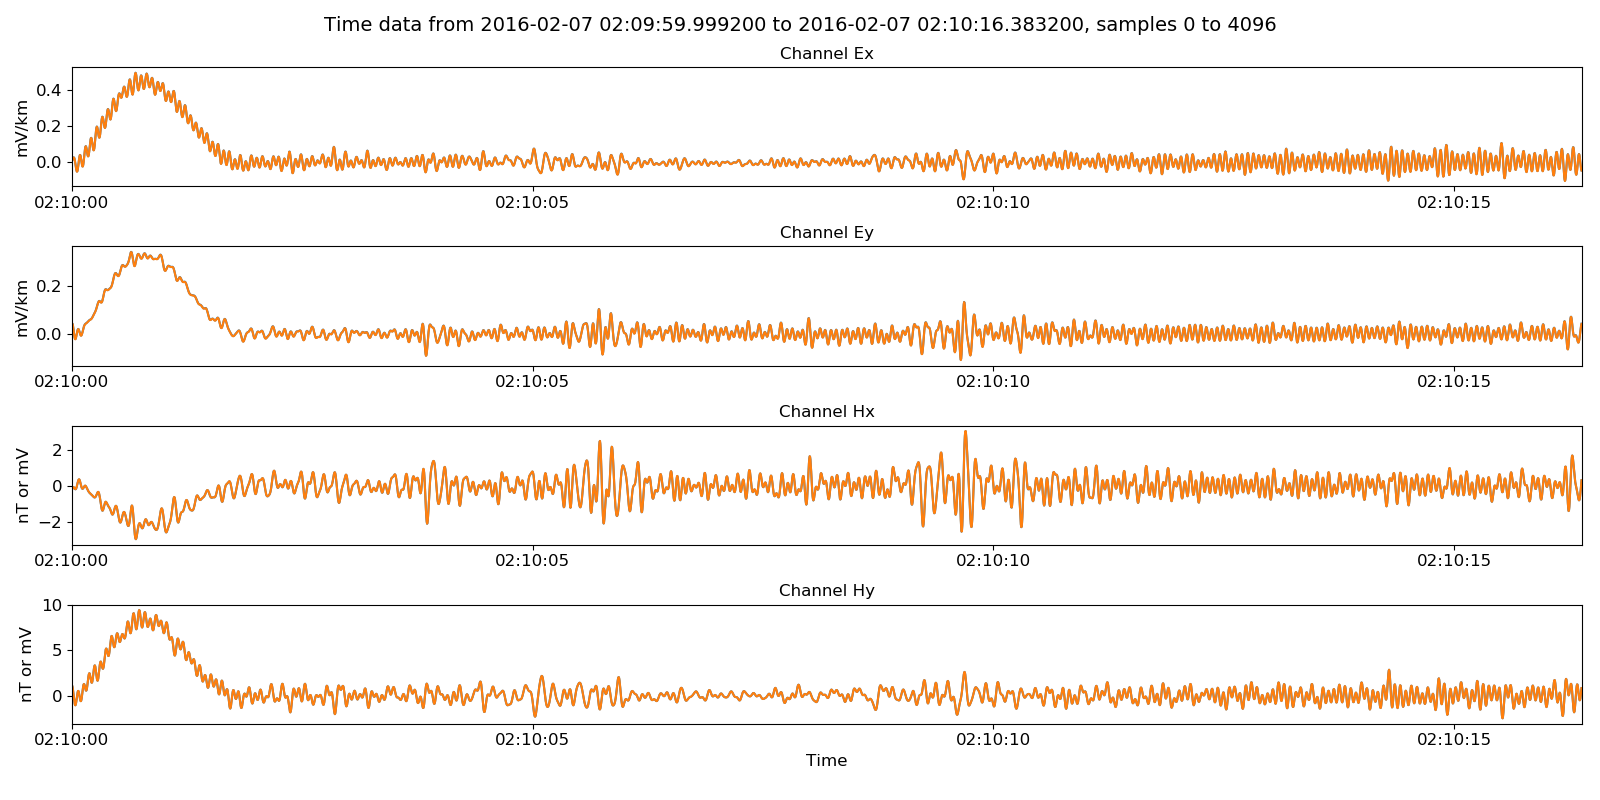
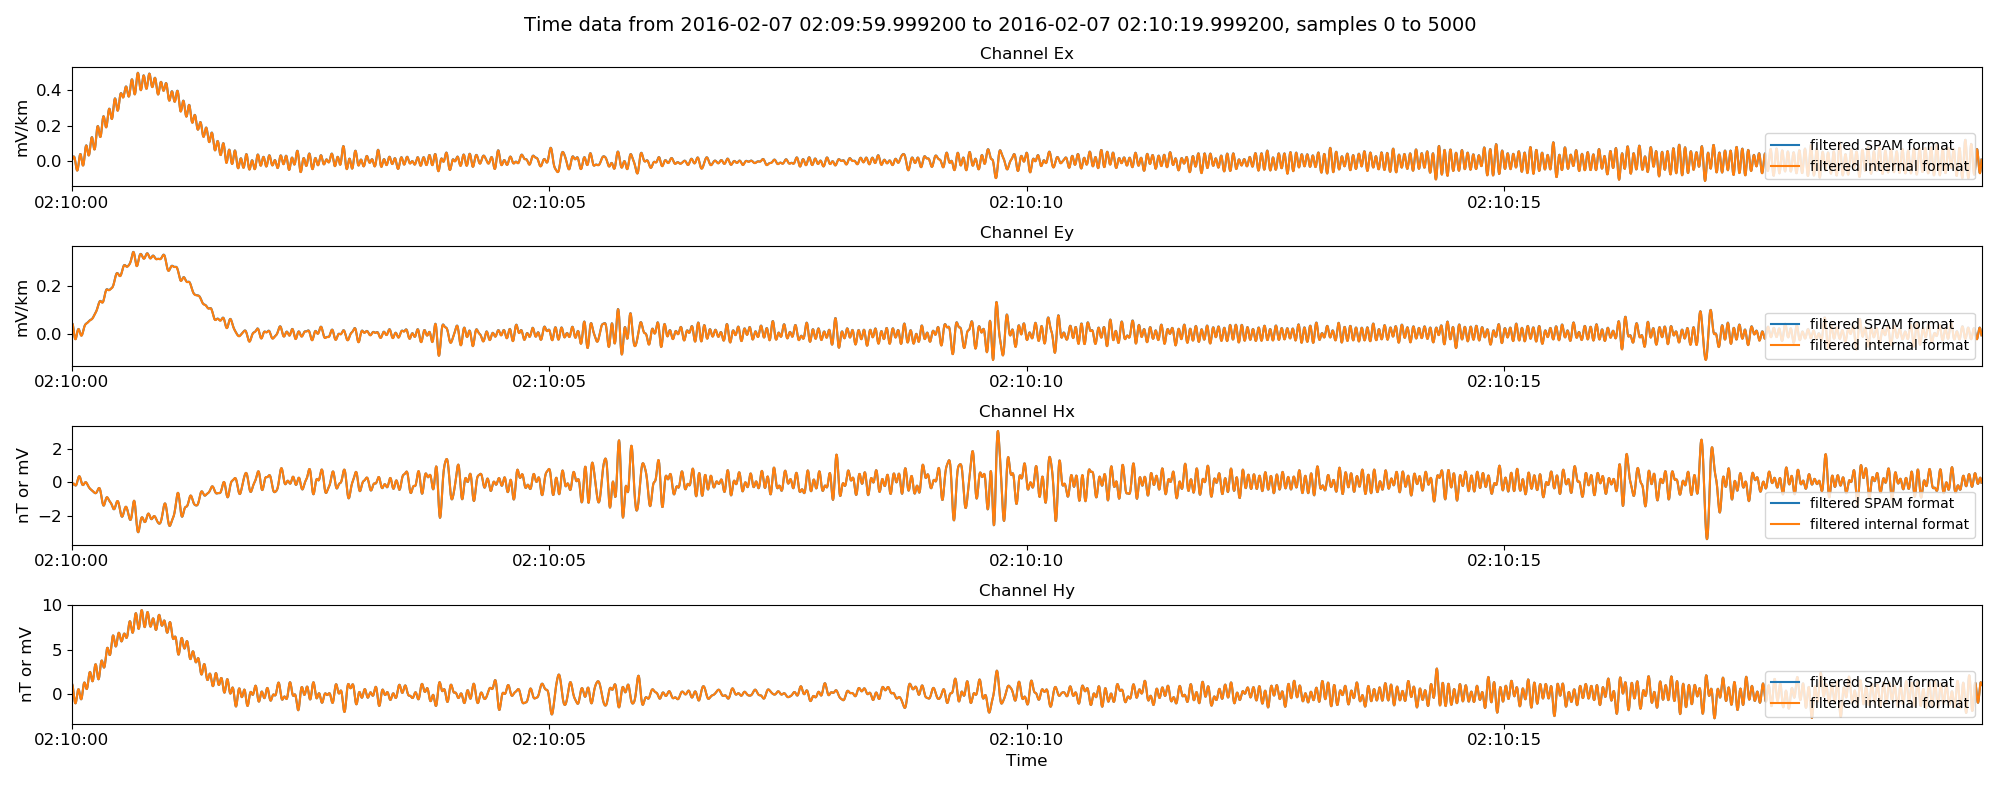
Updating examples given the changes. Some new images. Will now need an example for reading ascii data of unknown origin.

diff --git a/examples/conventions/atsReaderExamples.py b/examples/conventions/atsReaderExamples.py
@@ -14,32 +14,70 @@ unscaledData.printInfo()
 fig = unscaledData.view(sampleStop=20000)
 fig.savefig(os.path.join("images", "ats_unscaledData.png"))
 
-# get physical data, which is converted to field units 
-physicalData = atsReader.getPhysicalData(startTime, stopTime)
-physicalData.printInfo()
-fig = physicalData.view(sampleStop=20000)
+# get physical data, which is converted to field units
+physicalATSData = atsReader.getPhysicalData(startTime, stopTime)
+physicalATSData.printInfo()
+fig = physicalATSData.view(sampleStop=20000)
 fig.savefig(os.path.join("images", "ats_physicalData.png"))
 
 # all we see is 50Hz and 16Hz noise - apply low pass filter
 from resistics.utilities.utilsFilter import lowPass
-filteredData = lowPass(physicalData, 4, inplace=False)
-fig = filteredData.view(sampleStop=20000)
+
+filteredATSData = lowPass(physicalATSData, 4, inplace=False)
+fig = filteredATSData.view(sampleStop=20000)
 fig.savefig(os.path.join("images", "ats_filteredData.png"))
 
 # now write out as internal format
 from resistics.ioHandlers.dataWriterInternal import DataWriterInternal
+
 ats_2intenrnal = os.path.join("testData", "atsInternal")
 writer = DataWriterInternal()
 writer.setOutPath(ats_2intenrnal)
-writer.writeDataset(atsReader)
+writer.writeDataset(atsReader, physical=True)
+
+# read in internal format
+from resistics.ioHandlers.dataReaderInternal import DataReaderInternal
+
+internalReader = DataReaderInternal(ats_2intenrnal)
+internalReader.printInfo()
+internalReader.printComments()
+physicalInternalData = internalReader.getPhysicalData(startTime, stopTime)
+physicalInternalData.printInfo()
+
+# now plot the two datasets together
+import matplotlib.pyplot as plt
+
+fig = plt.figure(figsize=(20, 2*physicalATSData.numChans))
+physicalATSData.view(fig=fig, sampleStop=500, label="ATS format", legend=True)
+physicalInternalData.view(fig=fig, sampleStop=500, label="Internal format", legend=True)
+fig.tight_layout(rect=[0, 0.02, 1, 0.96])
+plt.show()
+fig.savefig(os.path.join("images", "ats_vs_internal.png"))
 
 # now write out as ascii format
 from resistics.ioHandlers.dataWriterAscii import DataWriterAscii
+
 ats_2ascii = os.path.join("testData", "atsAscii")
 writer = DataWriterAscii()
 writer.setOutPath(ats_2ascii)
-writer.writeDataset(atsReader)
+writer.writeDataset(atsReader, physical=True)
 
+# read in ascii format
+from resistics.ioHandlers.dataReaderAscii import DataReaderAscii
 
+asciiReader = DataReaderAscii(ats_2ascii)
+asciiReader.printInfo()
+asciiReader.printComments()
+physicalAsciiData = asciiReader.getPhysicalData(startTime, stopTime)
+physicalAsciiData.printInfo()
 
+# now plot the two datasets together
+import matplotlib.pyplot as plt
+
+fig = plt.figure(figsize=(20, 2*physicalATSData.numChans))
+physicalATSData.view(fig=fig, sampleStop=500, label="ATS format", legend=True)
+physicalAsciiData.view(fig=fig, sampleStop=500, label="Ascii format", legend=True)
+fig.tight_layout(rect=[0, 0.02, 1, 0.96])
+plt.show()
+fig.savefig(os.path.join("images", "ats_vs_ascii.png"))
 

diff --git a/examples/conventions/spamReaderExamples.py b/examples/conventions/spamReaderExamples.py
@@ -10,13 +10,19 @@ from resistics.ioHandlers.dataWriterInternal import DataWriterInternal
 spam_2internal = os.path.join("testData", "spamInternal")
 writer = DataWriterInternal()
 writer.setOutPath(spam_2internal)
-writer.writeDataset(spamReader, lsb_applied=True)
+writer.writeDataset(spamReader, physical=True)
 
 # get physical data from SPAM
+import matplotlib.pyplot as plt
 startTime = "2016-02-07 02:10:00"
 stopTime = "2016-02-07 02:30:00"
 physicalSPAMData = spamReader.getPhysicalData(startTime, stopTime, remnans=True)
 physicalSPAMData.printInfo()
+fig = plt.figure(figsize=(20, 2*physicalSPAMData.numChans))
+physicalSPAMData.view(fig = fig, sampleStop=2000)
+fig.tight_layout(rect=[0, 0.02, 1, 0.96])
+plt.show()
+fig.savefig(os.path.join("images", "spam.png"))
 
 # read in the internal format dataset and see what's in the comments
 from resistics.ioHandlers.dataReaderInternal import DataReaderInternal
@@ -27,10 +33,9 @@ physicalInternalData = internalReader.getPhysicalData(startTime, stopTime)
 physicalInternalData.printInfo()
 
 # now plot the two datasets together
-import matplotlib.pyplot as plt
-fig = plt.figure(figsize=(16,8))
-physicalSPAMData.view(fig = fig, label="SPAM format", legend=True)
-physicalInternalData.view(fig = fig, label="Internal format", legend=True)
+fig = plt.figure(figsize=(20, 2*physicalSPAMData.numChans))
+physicalSPAMData.view(fig = fig, sampleStop=500, label="SPAM format")
+physicalInternalData.view(fig = fig, sampleStop=500, label="Internal format", legend=True)
 fig.tight_layout(rect=[0, 0.02, 1, 0.96])
 plt.show()
 fig.savefig(os.path.join("images", "spam_vs_internal.png"))
@@ -44,7 +49,7 @@ filteredSPAMData.printInfo()
 spam_2filteredSubset = os.path.join("testData", "spamInternalFiltered")
 writer.setOutPath(spam_2filteredSubset)
 chanHeaders, chanMap = spamReader.getChanHeaders()
-writer.writeData(spamReader.getHeaders(), chanHeaders, filteredSPAMData, lsb_applied=True)
+writer.writeData(spamReader.getHeaders(), chanHeaders, filteredSPAMData, physical=True)
 
 # let's try reading in again
 internalReaderFiltered = DataReaderInternal(spam_2filteredSubset)
@@ -56,10 +61,9 @@ filteredInternalData = internalReaderFiltered.getPhysicalSamples()
 filteredInternalData.printInfo()
 
 # plot this against the original
-import matplotlib.pyplot as plt
-fig = plt.figure(figsize=(16,8))
-filteredSPAMData.view(fig = fig, label="filtered SPAM format")
-filteredInternalData.view(fig = fig, label="filtered internal format")
+fig = plt.figure(figsize=(20, 2*physicalSPAMData.numChans))
+filteredSPAMData.view(fig = fig, sampleStop=5000, label="filtered SPAM format")
+filteredInternalData.view(fig = fig, sampleStop=5000, label="filtered internal format", legend=True)
 fig.tight_layout(rect=[0, 0.02, 1, 0.96])
 plt.show()
 fig.savefig(os.path.join("images", "spam_vs_internal_filtered.png"))

diff --git a/examples/conventions/phoenixReaderExamples.py b/examples/conventions/phoenixReaderExamples.py
@@ -1,6 +1,5 @@
 import os
 from resistics.ioHandlers.dataReaderPhoenix import DataReaderPhoenix
-
 # read in spam data
 phoenixPath = os.path.join("testData", "phoenix")
 phoenixReader = DataReaderPhoenix(phoenixPath)
@@ -36,9 +35,9 @@ internalData = internalReader.getPhysicalData(startTime, stopTime)
 
 # plot this against the original
 import matplotlib.pyplot as plt
-fig = plt.figure(figsize=(16,8))
+fig = plt.figure(figsize=(20, 2*physicalData.numChans))
 physicalData.view(fig = fig, label="Phoenix format data")
-internalData.view(fig = fig, label="Internal format data")
+internalData.view(fig = fig, label="Internal format data", legend=True)
 fig.tight_layout(rect=[0, 0.02, 1, 0.96])
 plt.show()
 fig.savefig(os.path.join("images", "phoenix_vs_internal_continuous.png"))
